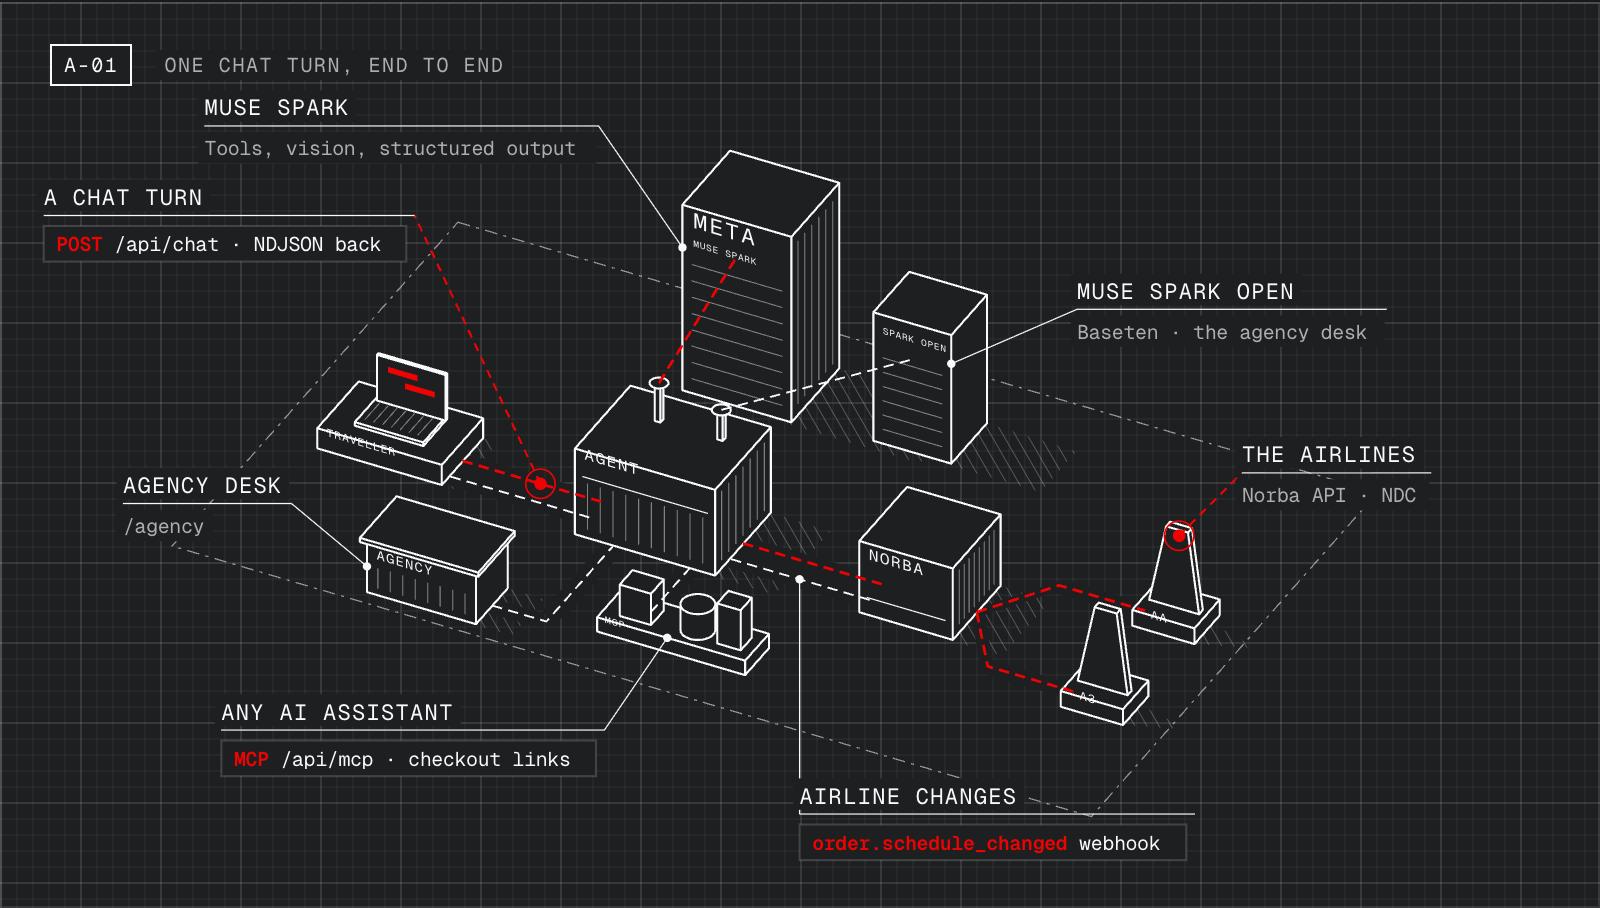
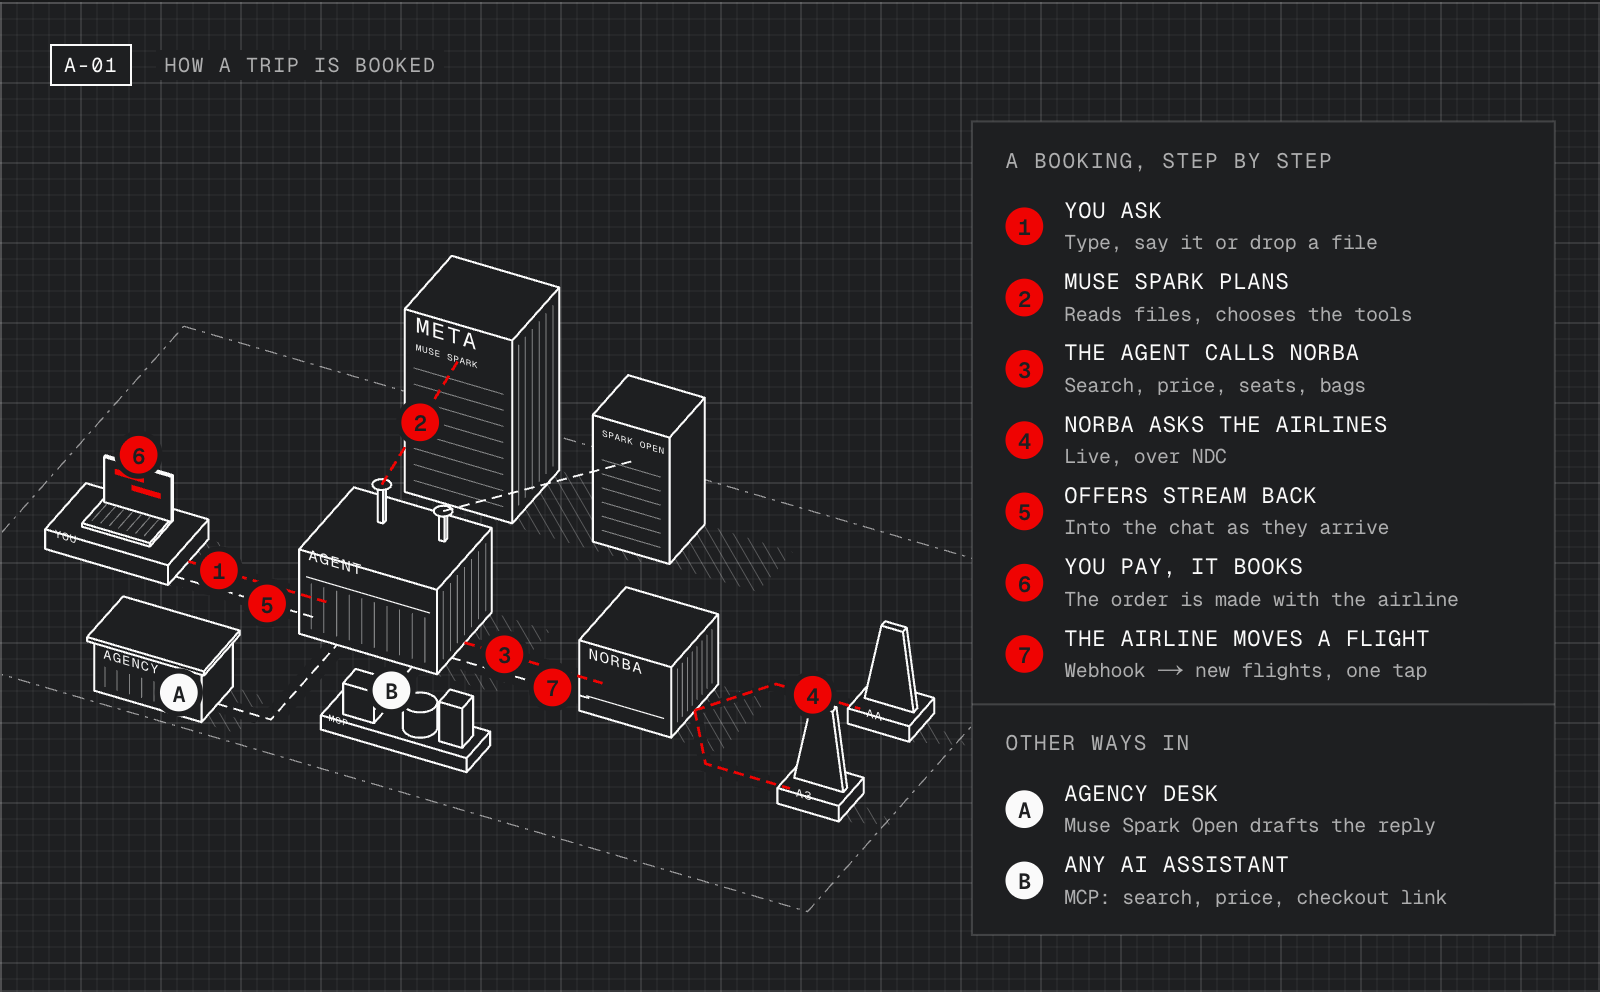
The architecture drawing reads as numbered steps: a booking's seven (you ask, Muse Spark plans, the agent calls Norba, Norba asks the airlines, offers stream back, you pay and it books, the airline moves a flight) stand as red numbers on their wires and the agency desk and any AI assistant as A and 

diff --git a/src/components/drawing/architecture.tsx b/src/components/drawing/architecture.tsx
@@ -1,17 +1,19 @@
 "use client";
 
-import { Callout, layout, Paths, range, Scene, Sheet, type Kind, type V3 } from "./iso";
+import { STEPS } from "./architecture-steps";
+import { layout, Paths, range, Scene, Sheet, type Kind, type P2, type V3 } from "./iso";
 
 /**
- * The docs page's architecture, as a small campus on drawing paper. The agent's building stands in the middle. The
- * traveller's laptop sends it a chat turn and gets its events back. Two masts on its roof reach the Meta towers
- * behind: Muse Spark for the chat, Muse Spark Open for the agency desk. Norba's building stands to its right and
- * relays to the airlines' stands, and it sends the airline's schedule changes back as webhooks. The agency desk and
- * other AI assistants (over MCP) come in from the front. Red marks a chat turn's path; the other wires are in ink.
+ * The docs page's architecture, as a small campus on drawing paper, read as numbered steps. The agent's building
+ * stands in the middle. The traveller's laptop sends it a chat turn and gets its events back. Two masts on its roof
+ * reach the Meta towers behind: Muse Spark for the chat, Muse Spark Open for the agency desk. Norba's building stands
+ * to its right and relays to the airlines' stands, and it sends the airline's schedule changes back as webhooks. The
+ * agency desk and other AI assistants (over MCP) come in from the front. Each step's number sits on its wire and the
+ * legend beside the drawing tells them in order; red marks a chat turn's path, ink the rest.
  */
 
 const W = 760;
-const H = 430;
+const H = 470;
 
 /** `u` runs along the sheet to the right, `v` towards the viewer, in metres; larger `u` or `v` stands nearer. */
 const TURN = (18 * Math.PI) / 180;
@@ -142,20 +144,55 @@ const DRAWING = (() => {
   }
   lbox(scene, 3.8, 9.3, MCP.z, 5.3, 10.7, MCP.z + 2.8);
 
-  const L = layout(scene, W, H, { l: 120, r: 150, t: 70, b: 86 });
-  // A phone hides the callouts, so its crop takes in the whole campus and nothing else.
-  return { L, phone: "120 40 490 370" };
+  const L = layout(scene, W, H, { l: 20, r: 316, t: 60, b: 20 });
+  return { L };
 })();
 
+/** Where each step's number stands on the drawing. */
+const g = (u: number, v: number) => P(u, v, 0.05);
+const MARKS: Record<(typeof STEPS)[number]["n"], V3> = {
+  "1": g(-16, TURN_V),
+  "2": P((MAST_META.u - 6.5) / 2, (MAST_META.v + META.v1) / 2, (MAST_META.z + 10.5) / 2),
+  "3": g(2.6, TURN_V),
+  "4": g(SPLIT[1] + 2.4, LINES[0].v),
+  "5": g(-12, EVENTS_V),
+  "6": P(-22, -1.5, 5.4),
+  "7": g(6.6, WEBHOOK_V),
+  A: g(-12.5, 12),
+  B: g(MCP_U, 6.2),
+};
+
+/** The legend's column on the sheet. */
+const LX = W - 282;
+const LY = 56;
+const ROW = 34;
+
+/** A step's number in a disc: red on a chat turn's path, ink for the other ways in. */
+function Badge({ at: [x, y], n, delay }: { at: P2; n: string; delay: number }) {
+  const red = /\d/.test(n);
+  return (
+    <g className="fx-fade font-mono" style={{ animationDelay: `${delay}ms` }}>
+      <circle cx={x} cy={y} r={11.5} fill="var(--hr-panel)" />
+      <circle cx={x} cy={y} r={9} fill={red ? "var(--hr-rust)" : "var(--hr-ink-strong)"} />
+      <text x={x} y={y + 0.5} fontSize={10.5} fontWeight={600} textAnchor="middle" dominantBaseline="central" fill="var(--hr-panel)">
+        {n}
+      </text>
+    </g>
+  );
+}
+
 export function ArchitectureDrawing() {
-  const { L, phone } = DRAWING;
+  const { L } = DRAWING;
   const { at, plane, K } = L;
   const pts = (list: V3[]) => list.map((p) => at(p).join(",")).join(" ");
   const wire = { fill: "none", strokeWidth: 1.3, strokeDasharray: "5 3", strokeLinejoin: "round" as const, className: "fx-wire" };
-  const g = (u: number, v: number) => P(u, v, 0.05);
+  const step = (i: number) => 1300 + i * 220;
+  const main = STEPS.filter((s) => /\d/.test(s.n));
+  const other = STEPS.filter((s) => !/\d/.test(s.n));
+  const rowY = (i: number) => LY + 46 + i * ROW + (i >= main.length ? 40 : 0);
 
   return (
-    <Sheet code="A-01" title="One chat turn, end to end" W={W} H={H} phone={phone}>
+    <Sheet code="A-01" title="How a trip is booked" W={W} H={H}>
       <Paths list={L.paths} />
 
       {/* A chat turn in red: laptop to agent, up to Muse Spark, across to Norba and out to every airline. */}
@@ -169,7 +206,7 @@ export function ArchitectureDrawing() {
       </g>
 
       {/* The other wires in ink: events back, the agency desk's model, webhooks, the agency and the assistants. */}
-      <g className="fx-fade" style={{ animationDelay: "1250ms" }}>
+      <g className="fx-fade" style={{ animationDelay: "1200ms" }}>
         <polyline points={pts([g(AGENT.u0, EVENTS_V), g(LAPTOP.u1, EVENTS_V)])} stroke="var(--hr-ink-strong)" {...wire} strokeWidth={0.9} />
         <polyline points={pts([P(MAST_OPEN.u, MAST_OPEN.v, MAST_OPEN.z), P(4.5, OPEN.v1, 6.5)])} stroke="var(--hr-ink-strong)" {...wire} strokeWidth={0.9} />
         <polyline points={pts([g(NORBA.u0, WEBHOOK_V), g(AGENT.u1, WEBHOOK_V)])} stroke="var(--hr-ink-strong)" {...wire} strokeWidth={0.9} />
@@ -195,7 +232,7 @@ export function ArchitectureDrawing() {
           NORBA
         </text>
         <text transform={plane(P(LAPTOP.u0 + 0.6, LAPTOP.v1, 1.05), ALONG, UP_DOWN)} fontSize={0.75 * K} letterSpacing="0.06em" fill="var(--hr-ink-strong)">
-          TRAVELLER
+          YOU
         </text>
         <text transform={plane(P(AGENCY.u0 + 0.6, AGENCY.v1, AGENCY.z - 1.1), ALONG, UP_DOWN)} fontSize={0.9 * K} letterSpacing="0.08em" fill="var(--hr-ink-strong)">
           AGENCY
@@ -210,13 +247,36 @@ export function ArchitectureDrawing() {
         ))}
       </g>
 
-      <Callout at={at(g(-13, TURN_V))} off={[-60, -128]} side="left" title="A chat turn" chip={{ code: "POST", text: "/api/chat · NDJSON back" }} red delay={1400} />
-      <Callout at={at(P(META.u0, META.v1, META.z - 3))} off={[-40, -58]} side="left" title="Muse Spark" sub="Tools, vision, structured output" delay={1500} />
-      <Callout at={at(P(OPEN.u1, OPEN.v1, OPEN.z - 2))} off={[60, -26]} side="right" title="Muse Spark Open" sub="Baseten · the agency desk" delay={1550} />
-      <Callout at={at(g(4.5, WEBHOOK_V))} off={[0, 112]} side="right" title="Airline changes" chip={{ code: "order.schedule_changed", text: "webhook" }} delay={1600} />
-      <Callout at={at(P(END_U + 2.2, LINES[0].v, 6))} off={[30, -30]} side="right" title="The airlines" sub="Norba API · NDC" red delay={1650} />
-      <Callout at={at(P(1, MCP.v1, MCP.z))} off={[-30, 44]} side="left" title="Any AI assistant" chip={{ code: "MCP", text: "/api/mcp · checkout links" }} delay={1700} />
-      <Callout at={at(P(AGENCY.u0, AGENCY.v1, AGENCY.z / 2))} off={[-36, -30]} side="left" title="Agency desk" sub="/agency" delay={1750} />
+      {/* Each step's number on its wire, appearing in order. */}
+      {STEPS.map((s, i) => (
+        <Badge key={s.n} at={at(MARKS[s.n])} n={s.n} delay={step(i)} />
+      ))}
+
+      {/* The legend: the steps in order, then the other ways in. */}
+      <g className="font-mono">
+        <rect x={LX - 16} y={LY} width={W - LX - 4} height={rowY(STEPS.length - 1) + 30 - LY} fill="var(--hr-panel)" stroke="var(--hr-line-strong)" />
+        <text x={LX} y={LY + 22} fontSize={10} letterSpacing="0.08em" fill="var(--hr-ink-3)">
+          A BOOKING, STEP BY STEP
+        </text>
+        <line x1={LX - 16} x2={W - 20} y1={rowY(main.length) - 46} y2={rowY(main.length) - 46} stroke="var(--hr-line-strong)" />
+        <text x={LX} y={rowY(main.length) - 24} fontSize={10} letterSpacing="0.08em" fill="var(--hr-ink-3)">
+          OTHER WAYS IN
+        </text>
+        {[...main, ...other].map((s, i) => (
+          <g key={s.n} className="fx-fade" style={{ animationDelay: `${step(i)}ms` }}>
+            <circle cx={LX + 9} cy={rowY(i) + 4} r={9} fill={/\d/.test(s.n) ? "var(--hr-rust)" : "var(--hr-ink-strong)"} />
+            <text x={LX + 9} y={rowY(i) + 4.5} fontSize={10.5} fontWeight={600} textAnchor="middle" dominantBaseline="central" fill="var(--hr-panel)">
+              {s.n}
+            </text>
+            <text x={LX + 28} y={rowY(i)} fontSize={10.5} letterSpacing="0.04em" fill="var(--hr-ink-strong)" className="uppercase">
+              {s.title}
+            </text>
+            <text x={LX + 28} y={rowY(i) + 15} fontSize={9.5} fill="var(--hr-ink-3)">
+              {s.sub}
+            </text>
+          </g>
+        ))}
+      </g>
     </Sheet>
   );
 }

diff --git a/src/app/docs/page.tsx b/src/app/docs/page.tsx
@@ -4,6 +4,7 @@ import { AppFooter } from "@/components/app-footer";
 import { NorbaWordmark } from "@/components/brand";
 import { NavLinks } from "@/components/nav-link";
 import { ArchitectureDrawing } from "@/components/drawing/architecture";
+import { STEPS } from "@/components/drawing/architecture-steps";
 import { DocsToc } from "./docs-toc";
 import { Sq } from "@/components/status";
 import { brain } from "@/server/agent/run";
@@ -82,16 +83,6 @@ function Table({ head, rows }: { head: string[]; rows: React.ReactNode[][] }) {
     </div>
   );
 }
-
-/** What the drawing's callouts say, for phones, where the callouts are hidden. */
-const ARCHITECTURE_WIRES = [
-  ["A chat turn", "POST /api/chat, answered as NDJSON events"],
-  ["Agency desk", "/agency, on Muse Spark Open (Baseten)"],
-  ["Airline changes", "Norba's order.schedule_changed webhook, back to the conversation"],
-  ["Any AI assistant", "MCP at /api/mcp: search, price, checkout links"],
-  ["Muse Spark", "tools, vision and structured output on the Meta Model API"],
-  ["The airlines", "through the Norba API (NDC)"],
-] as const;
 
 const CHAT_CALL = `POST https://api.meta.ai/v1/chat/completions
 Authorization: Bearer $MODEL_API_KEY
@@ -210,16 +201,19 @@ export default function Docs() {
           </Section>
 
           <Section id="architecture" title="Architecture">
-            <figure className="na-paper relative aspect-[490/370] overflow-hidden border border-hr-line-strong/70 sm:aspect-[760/430]">
+            <figure className="na-paper relative aspect-[760/470] overflow-hidden border border-hr-line-strong/70">
               <ArchitectureDrawing />
             </figure>
-            <ul className="grid gap-1.5 text-[13px] leading-[1.55] text-hr-ink-2 md:hidden">
-              {ARCHITECTURE_WIRES.map(([who, what]) => (
-                <li key={who}>
-                  <span className="text-hr-ink-strong">{who}</span> — {what}
+            <ol className="grid gap-1.5 text-[13px] leading-[1.55] text-hr-ink-2 sm:hidden">
+              {STEPS.map((s) => (
+                <li key={s.n} className="flex gap-2.5">
+                  <span className={`grid size-5 shrink-0 place-items-center rounded-full font-mono text-[10.5px] text-hr-panel ${/\d/.test(s.n) ? "bg-hr-rust" : "bg-hr-ink-strong"}`}>{s.n}</span>
+                  <span>
+                    <span className="text-hr-ink-strong">{s.title}</span> — {s.sub}
+                  </span>
                 </li>
               ))}
-            </ul>
+            </ol>
             <P>
               A Next.js app (App Router) with its server in <C>src/server</C>. Every chat turn is one <C>POST /api/chat</C> answered as a stream of NDJSON events. The agent loop
               (<C>src/server/agent/run.ts</C>) asks Muse Spark, runs the tools it calls against Norba, gives it the results and repeats, up to eight rounds per message.

diff --git a/src/components/drawing/architecture-steps.ts b/src/components/drawing/architecture-steps.ts
@@ -1,0 +1,12 @@
+/** The steps, in the order a booking goes through them, then the two other ways in. */
+export const STEPS = [
+  { n: "1", title: "You ask", sub: "Type, say it or drop a file" },
+  { n: "2", title: "Muse Spark plans", sub: "Reads files, chooses the tools" },
+  { n: "3", title: "The agent calls Norba", sub: "Search, price, seats, bags" },
+  { n: "4", title: "Norba asks the airlines", sub: "Live, over NDC" },
+  { n: "5", title: "Offers stream back", sub: "Into the chat as they arrive" },
+  { n: "6", title: "You pay, it books", sub: "The order is made with the airline" },
+  { n: "7", title: "The airline moves a flight", sub: "Webhook → new flights, one tap" },
+  { n: "A", title: "Agency desk", sub: "Muse Spark Open drafts the reply" },
+  { n: "B", title: "Any AI assistant", sub: "MCP: search, price, checkout link" },
+] as const;
